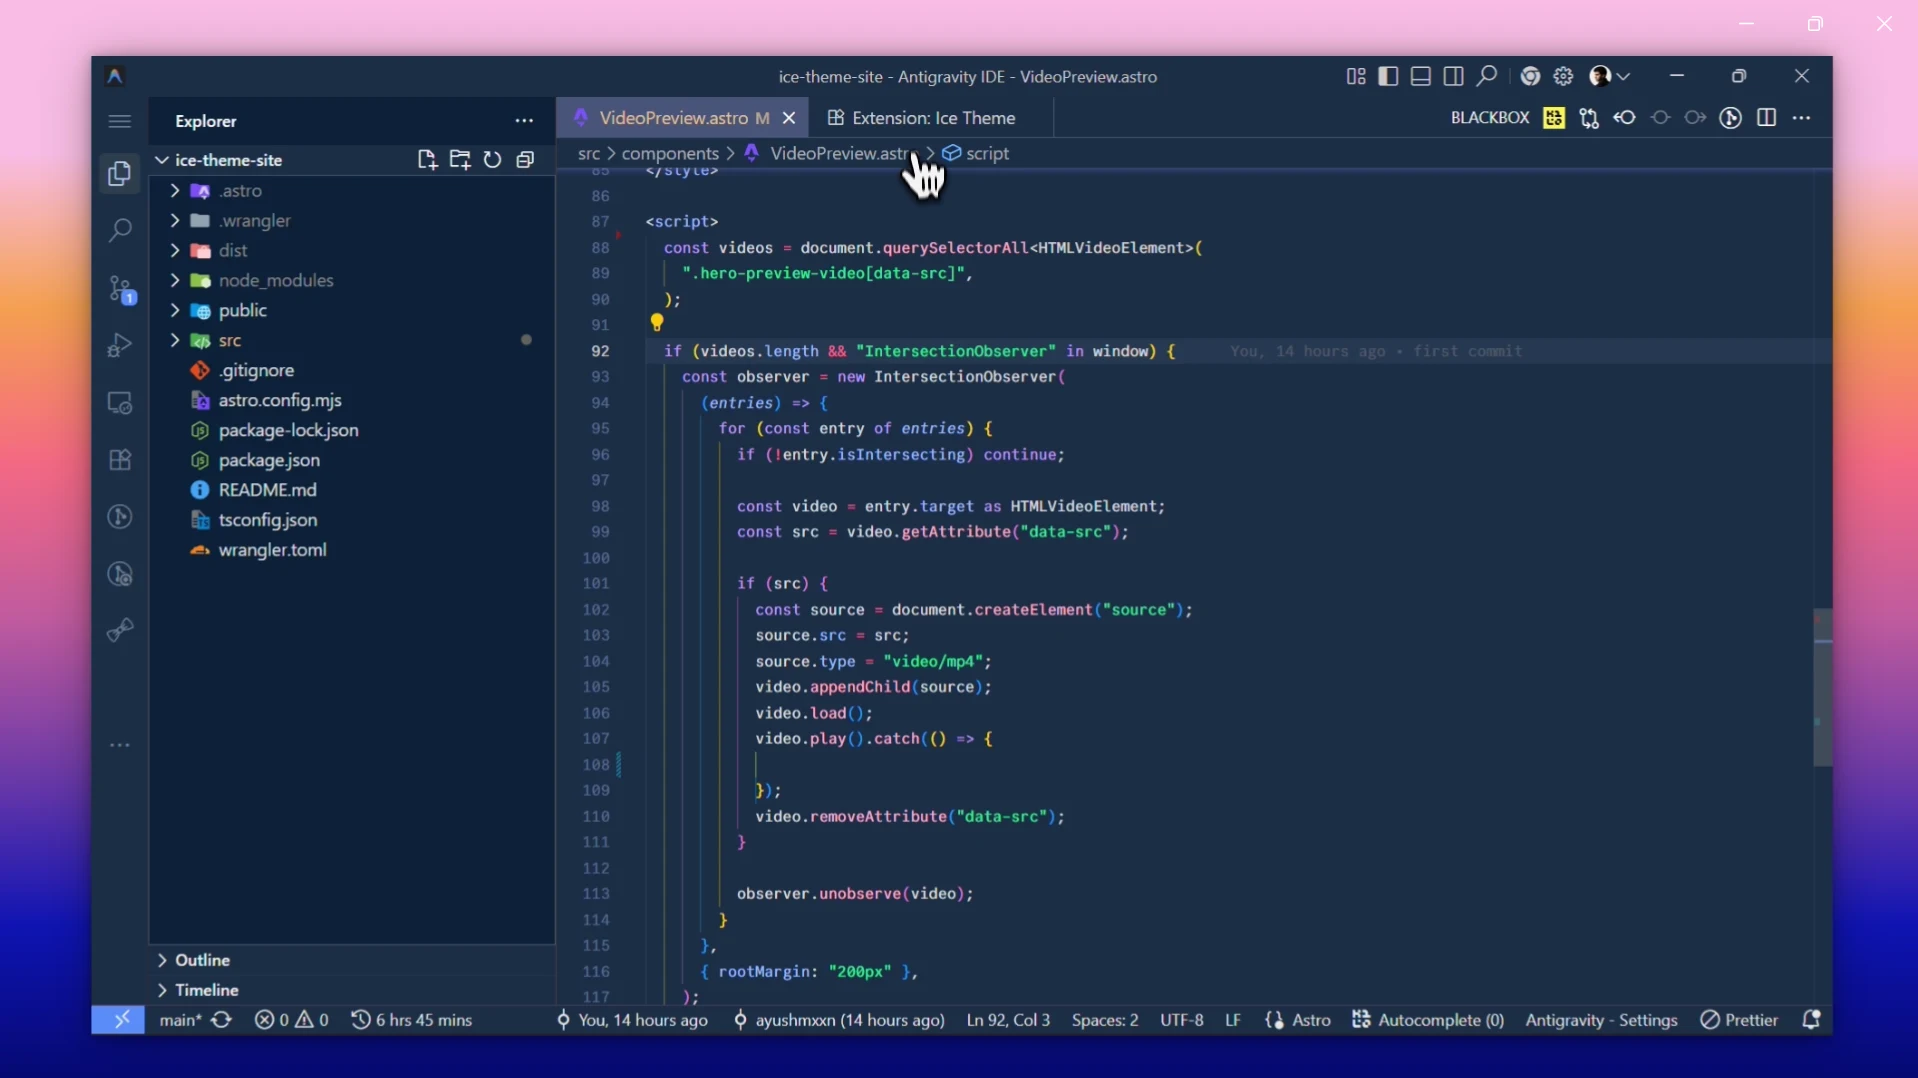
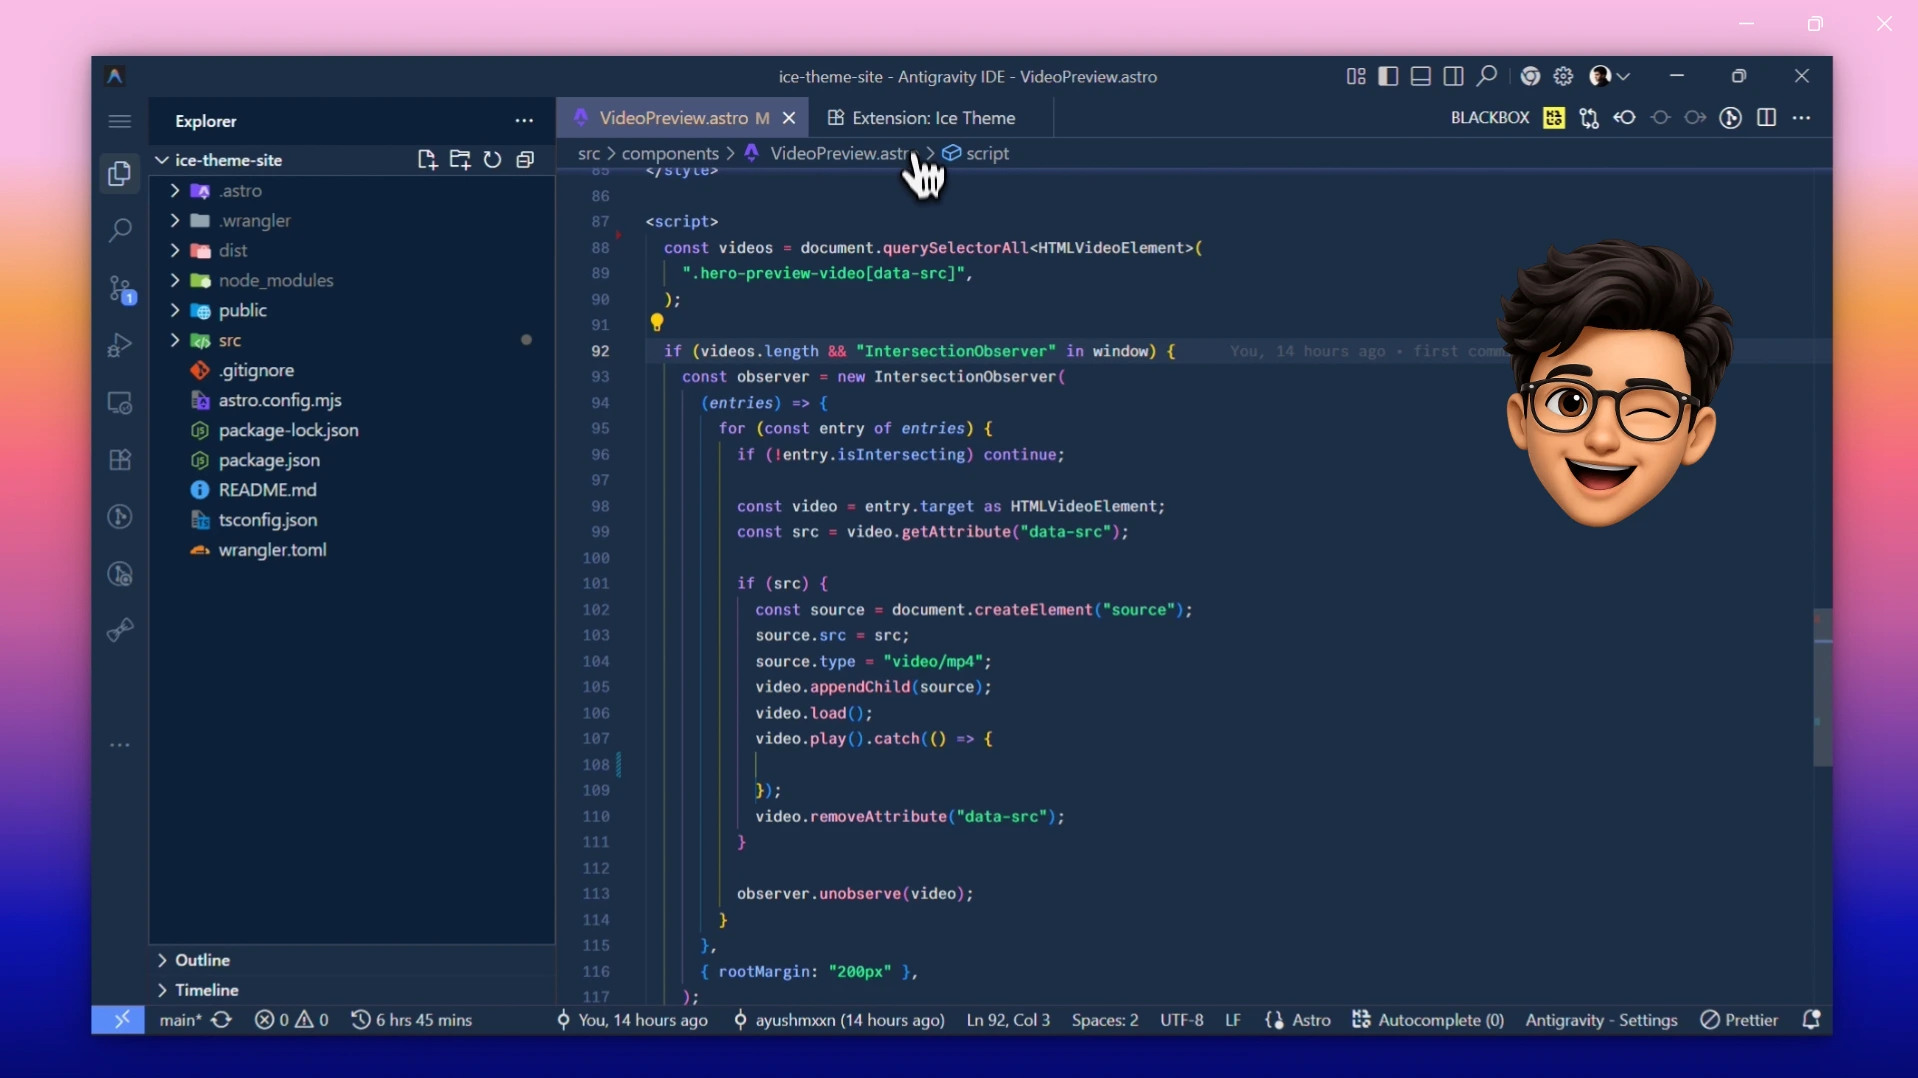
docs: update theme description and add preview image to README

Changed region(s): [[0.769, 0.2143, 0.9228, 0.4898]]

diff --git a/README.md b/README.md
@@ -1,3 +1,5 @@
+## Ice Theme | A Calm Dark Theme for Code Editors 🧊
+
 ![Ice Theme Preview](./images/ice-theme-preview.webp)
 
 ## Installation
